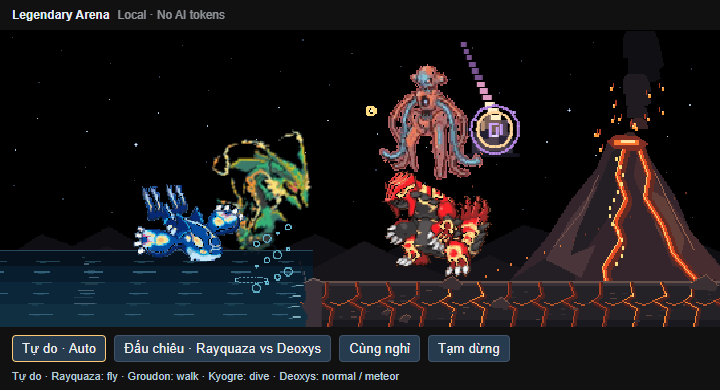
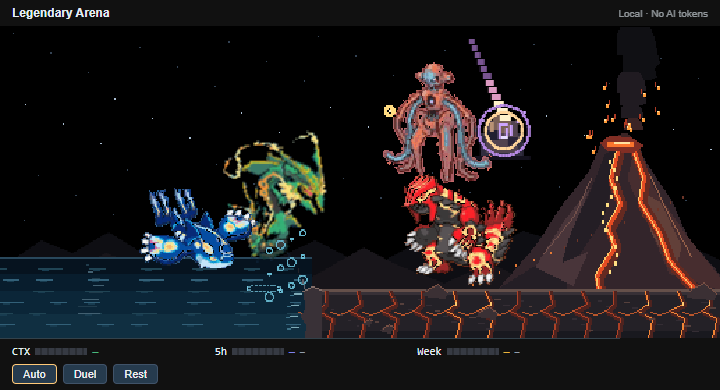
chore: update Pixel Familiars for Codex to version 0.19.9
- Updated documentation for Pixel Familiars to reflect changes in version 0.19.9.
- Enhanced Legendary Arena HUD to display remaining context, 5-hour quota, and weekly quota in a compact format.
- Implemented new arena usage tracking functionality in arena-hud.ts and arena-webview.ts.
- Added tests for arena usage functionality to ensure correct behavior and data handling.
- Updated extension files and images to support new features and improvements.
- Adjusted smoke tests to validate new arena HUD and usage metrics.

diff --git a/extensions/codex/arena.ts b/extensions/codex/arena.ts
@@ -1,19 +1,34 @@
 import * as vscode from 'vscode'
 import { randomBytes } from 'node:crypto'
+import { arenaUsage } from './arena-hud'
+import type { Usage } from './protocol'
 
 export function arenaHtml(script: string, ray: string, groudon: string, csp: string, nonce: string, kyogre: string, deoxys: string[] = []): string {
-  return `<!doctype html><html><head><meta charset="utf-8"><meta name="viewport" content="width=device-width,initial-scale=1"><meta http-equiv="Content-Security-Policy" content="default-src 'none'; img-src ${csp}; style-src 'unsafe-inline'; script-src 'nonce-${nonce}'"><style>
-  html,body{margin:0;height:100%;background:var(--vscode-editor-background,#111111);color:var(--vscode-foreground,#e5eef5);font:12px sans-serif}body{display:flex;flex-direction:column}header,footer{padding:8px 12px;display:flex;align-items:center;gap:8px;flex-wrap:wrap}header span{opacity:.6}main{position:relative;background:#000;flex:1;min-height:80px;overflow:hidden}canvas{position:absolute;inset:0;width:100%;height:100%;display:block;image-rendering:pixelated}button{background:#263b4e;color:#eee;border:1px solid #405369;padding:5px 9px;border-radius:4px;cursor:pointer}button[aria-pressed=true]{border-color:#ffc978}button:focus-visible{outline:2px solid #5aa9ff}#arena-status{padding:0 12px 8px;font-size:11px;color:#b8ccd9}img{display:none}</style></head><body>
-  <header><strong>Legendary Arena</strong><span>Local · No AI tokens</span></header><main><canvas id="arena" aria-label="Mega Rayquaza, Primal Groudon Primal Kyogre and Deoxys sharing a pixel arena"></canvas></main>
-  <footer><button data-mode="play" aria-pressed="true">Tự do · Auto</button><button data-mode="duel" aria-pressed="false">Đấu chiêu · Rayquaza vs Deoxys</button><button data-mode="rest" aria-pressed="false">Cùng nghỉ</button><button id="arena-pause" aria-pressed="false">Tạm dừng</button></footer><div id="arena-status" role="status">Đang tải các pet…</div>
+  return `<!doctype html><html lang="en"><head><meta charset="utf-8"><meta name="viewport" content="width=device-width,initial-scale=1"><meta http-equiv="Content-Security-Policy" content="default-src 'none'; img-src ${csp}; style-src 'unsafe-inline'; script-src 'nonce-${nonce}'"><style>
+  html,body{margin:0;height:100%;background:var(--vscode-editor-background,#111111);color:var(--vscode-foreground,#e5eef5);font:12px sans-serif}body{display:flex;flex-direction:column}header,footer{padding:8px 12px;display:flex;align-items:center;gap:8px;flex-wrap:wrap}header span{opacity:.6}main{position:relative;background:#000;flex:1;min-height:80px;overflow:hidden}canvas{position:absolute;inset:0;width:100%;height:100%;display:block;image-rendering:pixelated}button{background:#263b4e;color:#eee;border:1px solid #405369;padding:5px 9px;border-radius:4px;cursor:pointer}button[aria-pressed=true]{border-color:#ffc978}button:focus-visible{outline:2px solid #5aa9ff}#arena-status{position:absolute;width:1px;height:1px;overflow:hidden;clip-path:inset(50%)}
+  header{flex-shrink:0;justify-content:space-between;padding:6px 12px}header>span{font-size:10px}
+  #arena-hud{display:grid;grid-template-columns:repeat(3,minmax(0,1fr));gap:12px;border-top:1px solid #33424b;padding:6px 12px;flex-shrink:0;font:11px monospace;width:100%;max-width:620px;box-sizing:border-box;white-space:nowrap}.quota{display:flex;gap:5px;align-items:center;min-width:0}.quota label{flex-shrink:0}.meter{height:7px;background:#363a43;position:relative;overflow:hidden;flex:1;min-width:6px;max-width:52px}.meter:after{content:'';position:absolute;inset:0;background:repeating-linear-gradient(90deg,transparent 0 5px,#1115 5px 7px)}.meter i{display:block;height:100%;background:var(--quota-color);width:0}.quota[data-key=hp]{--quota-color:#49b77c}.quota[data-key=mp]{--quota-color:#7d81ee}.quota[data-key=st]{--quota-color:#e9b33c}.quota[data-low=true]{--quota-color:#e15b59}.quota output{color:var(--quota-color);font-weight:bold;flex-shrink:0}.reset{color:#9ba6b6;font-size:9px;flex-shrink:0}.reset:empty{display:none}
+  #arena-controls{display:flex;gap:6px;padding:0 12px 6px;flex-shrink:0}#arena-controls button{font-size:11px;padding:3px 10px}
+  @media(max-width:360px){#arena-hud{padding:5px 8px;gap:6px;font-size:9px}.quota{gap:3px}.reset{font-size:8px}.meter{max-width:18px}header{padding:5px 8px}header>span{display:none}#arena-controls{padding:0 8px 5px}}
+  @media(max-height:180px){header{padding:3px 8px}#arena-hud{padding:4px 8px}main{min-height:40px}#arena-controls{padding-bottom:4px}}img{display:none}</style></head><body>
+  <header><strong>Legendary Arena</strong><span>Local · No AI tokens</span></header><main><canvas id="arena" aria-label="Mega Rayquaza, Primal Groudon, Primal Kyogre and Deoxys sharing a pixel arena"></canvas></main>
+  <footer id="arena-hud" role="group" aria-label="Remaining context, five-hour and weekly token quotas">${['hp','mp','st'].map(key=>`<div class="quota" data-key="${key}"><label></label><div class="meter" role="progressbar"><i></i></div><output>—</output><span class="reset"></span></div>`).join('')}</footer>
+  <div id="arena-controls" role="group" aria-label="Arena actions"><button data-mode="play" aria-pressed="true">Auto</button><button data-mode="duel" aria-pressed="false">Duel</button><button data-mode="rest" aria-pressed="false">Rest</button></div><div id="arena-status" role="status">Loading pets…</div>
   <img id="arena-ray" src="${ray}" alt=""><img id="arena-groudon" src="${groudon}" alt=""><img id="arena-kyogre" src="${kyogre}" alt="">${deoxys.map((url,i)=>`<img id="arena-deoxys-${['normal','attack','defense','speed'][i]}" src="${url}" alt="">`).join('')}<script nonce="${nonce}" src="${script}"></script></body></html>`
 }
 export class Arena implements vscode.WebviewViewProvider {
-  constructor(private context: vscode.ExtensionContext) {}
+  constructor(private context: vscode.ExtensionContext,private observer?:{subscribe:(listener:(usage:Usage)=>void)=>vscode.Disposable;visible:(visible:boolean)=>void}) {}
   resolveWebviewView(view: vscode.WebviewView): void {
     const root = this.context.extensionUri
     view.webview.options = { enableScripts: true, localResourceRoots: [vscode.Uri.joinPath(root, 'dist'), vscode.Uri.joinPath(root, 'extensions', 'codex')] }
     const asset = (folder: string, name: string) => view.webview.asWebviewUri(vscode.Uri.joinPath(root, folder, name)).toString()
+    let usage:Usage={},ready=false
+    const send=()=>{if(ready&&view.visible)void view.webview.postMessage({type:'arena-usage',usage})}
+    const subscription=this.observer?.subscribe(value=>{usage=arenaUsage(value);send()})
+    this.observer?.visible(view.visible)
+    this.context.subscriptions.push(view.webview.onDidReceiveMessage((message:unknown)=>{
+      if(message&&typeof message==='object'&&(message as {type?:unknown}).type==='arena-ready'){ready=true;send()}
+    }),view.onDidChangeVisibility(()=>{this.observer?.visible(view.visible);send()}),view.onDidDispose(()=>{subscription?.dispose();this.observer?.visible(false)}))
     view.webview.html = arenaHtml(asset('dist', 'arena.js'), asset('extensions/codex', 'legendary-128px-atlas.png'), asset('extensions/codex', 'groudon-primal-128px-atlas.png'), view.webview.cspSource, randomBytes(16).toString('hex'), asset('extensions/codex','kyogre-primal-128px-atlas.png'), ['normal','attack','defense','speed'].map(form=>asset('extensions/codex',`deoxys-${form}-128px-atlas.png`)))
   }
 }

diff --git a/extensions/codex/arena-webview.ts b/extensions/codex/arena-webview.ts
@@ -1,3 +1,4 @@
+import { arenaUsage,arenaUsageRows } from './arena-hud'
 import { drawGroundDuel, drawMeteorRain } from './ground-duel-effects'
 import { drawAirDuel } from './air-duel-effects'
 import { DeoxysRenderer } from './deoxys-renderer'
@@ -9,6 +10,30 @@ import { drawArenaScene } from './arena-scene'
 import { MegaAnimator, MegaTexture, megaMouth, MEGA_DURATION, type MegaAction } from './mega-rayquaza'
 import { GroudonAnimator, GroudonTexture, groudonMouth, GROUDON_DURATION, type GroudonAction } from './primal-groudon'
 
+declare function acquireVsCodeApi():{postMessage(message:unknown):void}
+const api=typeof acquireVsCodeApi==='function'?acquireVsCodeApi():undefined
+let usage:unknown={},lastUsageKey=''
+function renderUsage(now=Date.now()):void {
+ const key=JSON.stringify([usage,Math.floor(now/60000)])
+ if(key===lastUsageKey)return;lastUsageKey=key
+ for(const row of arenaUsageRows(usage,now)){
+  const element=document.querySelector<HTMLElement>(`.quota[data-key=${row.key}]`)!,meter=element.querySelector<HTMLElement>('.meter')!
+  element.querySelector('label')!.textContent=row.label
+  element.querySelector('output')!.textContent=row.value===undefined?'—':`${Math.round(row.value)}%`
+  element.querySelector('.reset')!.textContent=row.reset?`↻${row.reset.replace('reset ','').split(' ')[0]}`:''
+  element.dataset.low=String(row.value!==undefined&&row.value<=20)
+  meter.querySelector<HTMLElement>('i')!.style.width=`${row.value??0}%`
+  meter.setAttribute('aria-label',`${row.label} remaining: ${row.value===undefined?'unavailable':Math.round(row.value)+'%'}`)
+  meter.setAttribute('aria-valuemin','0');meter.setAttribute('aria-valuemax','100')
+  if(row.value===undefined)meter.removeAttribute('aria-valuenow');else meter.setAttribute('aria-valuenow',String(row.value))
+  element.title=row.value===undefined?'Usage data is unavailable for the selected Codex session':`${row.label} remaining: ${Math.round(row.value)}%${row.reset?' · '+row.reset:''}`
+ }
+}
+window.addEventListener('message',(event:MessageEvent<unknown>)=>{
+ const message=event.data
+ if(message&&typeof message==='object'&&(message as {type?:unknown}).type==='arena-usage'){usage=arenaUsage((message as {usage?:unknown}).usage);renderUsage()}
+})
+renderUsage();api?.postMessage({type:'arena-ready'})
 const canvas = document.querySelector<HTMLCanvasElement>('#arena')!, ctx = canvas.getContext('2d')!
 const status = document.querySelector<HTMLElement>('#arena-status')!
 const ray = new MegaAnimator(), groudon = new GroudonAnimator(), kyogre = new KyogreAnimator()
@@ -23,7 +48,7 @@ let rayTexture: MegaTexture, groundTexture: GroudonTexture
 const life = new ArenaLife()
 const deoxysLife = life.deoxys
 const deoxys = new DeoxysRenderer(DEOXYS_FORMS.map(form => document.querySelector<HTMLImageElement>(`#arena-deoxys-${form}`)!))
-let paused = false, last = 0, paint = 0, ready = false, rayRevision = -1, groundRevision = -1
+let last = 0, paint = 0, ready = false, rayRevision = -1, groundRevision = -1
 const pixel = (x: number, y: number, w: number, h: number, color: string) => { pen.fillStyle = color; pen.fillRect(Math.round(x), Math.round(y), w, h) }
 function ring(x: number, y: number, r: number, color: string): void {
   for (let i = 0; i < 48; i++) { const a = i * Math.PI / 24; pixel(x + Math.cos(a) * r, y + Math.sin(a) * r, 2, 2, color) }
@@ -102,11 +127,11 @@ function draw(): void {
     if (beat % 4 === 2 && p > .35 && p < .85) for (let i = 0; i < 4; i++) { const h = Math.max(0, Math.sin(Math.min(1, Math.max(0, (p - .35 - i * .04) * 4)) * Math.PI)) * 42; pixel(gx - 14 - i * 23, 189 - h, 8, h, '#8b4835'); pixel(gx - 12 - i * 23, 190 - h, 2, h, '#ffc262') }
     if(beat%4===3)drawMeteorRain(pen,p,fireMouth,target)
     if (turn === 0 && (mode==='duel'||life.opponent === 'kyogre')) phase = p < .43 ? 'charge' : p < .7 ? 'projectile' : p < .88 ? 'shield' : 'recover'
-    status.textContent = `Äáº¥u tập · ${(mode==='duel'||life.opponent === 'kyogre') ? 'Kyogre & Groudon' : 'Rayquaza & Groudon'} · ${beat % 4 === 0 ? (mode==='duel'||life.opponent === 'kyogre') ? 'Cầu sáng / tia nước' : 'Dragon Pulse' : ['','Energy Burst','Precipice Blades','Eruption'][beat % 4]} · ${phase}`
+    status.textContent = `Sparring · ${(mode==='duel'||life.opponent === 'kyogre') ? 'Kyogre & Groudon' : 'Rayquaza & Groudon'} · ${beat % 4 === 0 ? (mode==='duel'||life.opponent === 'kyogre') ? 'Hydro Cannon' : 'Dragon Pulse' : ['','Energy Burst','Precipice Blades','Eruption'][beat % 4]} · ${phase}`
   } else if(mode!=='duel') {
     if (life.ray.action === 'sleep' || life.groudon.action === 'sleep') { pen.fillStyle = '#b5e3df'; pen.font = '10px monospace'; pen.fillText('z Z', rx + 110, 44); pen.fillText('z Z', gx + 150, 64) }
     else { const x = 235 + Math.sin(t) * 45, y = 70 + Math.cos(t * 1.3) * 22; ring(x, y, 3, '#ffdb81'); pixel(x, y, 2, 2, '#fff2cc') }
-    status.textContent = life.state === 'approach' ? 'Các pet đang tới vị trí đấu tập…' : mode === 'rest' ? 'Bốn pet cùng nghỉ · thở chậm' : `Tự do · Rayquaza: ${life.ray.action} · Groudon: ${life.groudon.action} · Kyogre: ${life.kyogre.action}`
+    status.textContent = life.state === 'approach' ? 'Pets are moving into position…' : mode === 'rest' ? 'All four pets are resting' : `Auto · Rayquaza: ${life.ray.action} · Groudon: ${life.groudon.action} · Kyogre: ${life.kyogre.action}`
   }
   if(mode==='duel') {
     phase=life.airDuel.phase
@@ -125,7 +150,6 @@ document.querySelectorAll<HTMLButtonElement>('button[data-mode]').forEach(button
   life.select(mode as ArenaMode); actions()
   document.querySelectorAll('button[data-mode]').forEach(item => item.setAttribute('aria-pressed', String(item === button))); draw()
 }))
-document.querySelector('#arena-pause')!.addEventListener('click', event => { paused = !paused; const button = event.currentTarget as HTMLButtonElement; button.setAttribute('aria-pressed', String(paused)); button.textContent = paused ? 'Tiếp tục' : 'Tạm dừng' })
 new ResizeObserver(draw).observe(canvas)
 async function load(): Promise<void> {
   await deoxys.load()
@@ -135,10 +159,11 @@ async function load(): Promise<void> {
   const data = images.map(image => { context.clearRect(0, 0, 128, 128); context.drawImage(image, 0, 0, 128, 128, 0, 0, 128, 128); return context.getImageData(0, 0, 128, 128).data })
   rayTexture = new MegaTexture(data[0]); groundTexture = new GroudonTexture(data[1]); seaTexture = new KyogreTexture(data[2]); ready = true; actions(); draw()
 }
-void load().catch(() => { status.textContent = 'Không tải được sprite. Hãy cài lại extension.' })
+void load().catch(() => { status.textContent = 'Unable to load sprites. Reinstall the extension.' })
 function tick(now: number): void {
+  renderUsage()
   const delta = last ? Math.max(0, Math.min(100, now - last)) : 0; last = now
-  if (ready && !paused && !document.hidden) {
+  if (ready && !document.hidden) {
     life.advance(delta); actions()
     // Attacks finish once per turn; breathing and roaming motions keep looping.
     ray.advance(life.state === 'duel' ? Math.max(0, Math.min(delta, MEGA_DURATION[ray.action] - 1 - ray.elapsed)) : delta, false)

diff --git a/extensions/codex/extension.ts b/extensions/codex/extension.ts
@@ -6,7 +6,7 @@ import { join, isAbsolute, resolve, relative } from 'node:path'
 import { randomBytes } from 'node:crypto'
 import { readTheme } from '../../plugins/pixel-pet/hooks/theme'
 import { discoverSessions, SessionTail, type Session } from './sessions'
-import { emptySnapshot, object, combineActivity, type Preferences } from './protocol'
+import { emptySnapshot, object, combineActivity, type Preferences, type Usage } from './protocol'
 import { bridgeRoot, eventPath, atomicJson, storedTheme, saveTheme, readJson } from './bridge'
 import { installBridge } from './install'
 import { bundledTheme, meadowTheme, upgradeMeadow } from './scene-theme'
@@ -31,6 +31,16 @@ const preferences = (): Preferences => ({ speed: config().get('speed', 'normal')
 
 class Companion implements vscode.WebviewViewProvider, vscode.Disposable {
   private view?: vscode.WebviewView
+  private arenaVisible=false
+  private observedUsage:Usage={}
+  private usageListeners=new Set<(usage:Usage)=>void>()
+  observeUsage(listener:(usage:Usage)=>void):vscode.Disposable {
+    this.usageListeners.add(listener);listener({...this.observedUsage})
+    return {dispose:()=>{this.usageListeners.delete(listener)}}
+  }
+  setArenaVisible(visible:boolean):void {this.arenaVisible=visible;if(visible)void this.poll(true)}
+  private publishUsage(usage:Usage):void {this.observedUsage={...usage};for(const listener of this.usageListeners)listener({...usage})}
+
   private sessions: Session[] = []
   private tail?: SessionTail
   private hookTail?: SessionTail
@@ -156,7 +166,7 @@ class Companion implements vscode.WebviewViewProvider, vscode.Disposable {
 
   async poll(force = false): Promise<void> {
     if (this.busy || this.disposed || !vscode.workspace.isTrusted) return
-    if (!force && !this.view?.visible) return
+    if (!force && !this.view?.visible && !this.arenaVisible) return
     this.busy = true
     try {
       if (Date.now() >= this.nextScan || force) { await this.scan(); this.nextScan = Date.now() + 2000 }
@@ -176,6 +186,7 @@ class Companion implements vscode.WebviewViewProvider, vscode.Disposable {
       }
       snapshot = await this.subagents.poll(home(), vscode.workspace.workspaceFolders?.map(folder => folder.uri.fsPath) ?? [], snapshot)
       this.error = ''
+      this.publishUsage(snapshot.usage)
       if (!preferences().targets) snapshot.target = ''
       if (!preferences().targets) snapshot.toolStates = snapshot.toolStates?.map(tool => ({ ...tool, target: '' }))
       // Command directories stay in the host; the UI receives only project outcomes.
@@ -185,6 +196,7 @@ class Companion implements vscode.WebviewViewProvider, vscode.Disposable {
       const code = object(error).code
       const message = code === 'ENOENT' ? 'Codex sessions not found. Check Pixel Pet: Codex Home in Settings.' : `Session observer: ${error instanceof Error ? error.message : String(error)}`
       if (message !== this.error) { this.output.appendLine(message); this.error = message }
+      this.publishUsage({})
       await this.view?.webview.postMessage({ type: 'activity', snapshot: emptySnapshot(), demo: this.demo, preferences: preferences(), connection: message })
     } finally { this.busy = false }
   }
@@ -280,7 +292,7 @@ class Companion implements vscode.WebviewViewProvider, vscode.Disposable {
     void vscode.window.showInformationMessage('In the Codex terminal, enter /hooks and review/trust only the Pixel Pet observer entries. Then reload VS Code and start a new Codex session.')
   }
   report(error: unknown): void { this.output.appendLine(error instanceof Error ? error.message : String(error)) }
-  dispose(): void { this.disposed = true; this.project.dispose(); clearInterval(this.timer); clearTimeout(this.wakeTimer); this.bridgeWatcher?.close(); this.eventsWatcher?.close() }
+  dispose(): void { this.disposed = true; this.usageListeners.clear(); this.project.dispose(); clearInterval(this.timer); clearTimeout(this.wakeTimer); this.bridgeWatcher?.close(); this.eventsWatcher?.close() }
 }
 
 export function activate(context: vscode.ExtensionContext): void {
@@ -294,7 +306,7 @@ export function activate(context: vscode.ExtensionContext): void {
     vscode.commands.registerCommand('pixelPet.openDeoxys', () => vscode.commands.executeCommand('pixelPet.deoxys.focus')),
     vscode.window.registerWebviewViewProvider('pixelPet.kyogre', new Kyogre(context)),
     vscode.commands.registerCommand('pixelPet.openKyogre', () => vscode.commands.executeCommand('pixelPet.kyogre.focus')),
-    vscode.window.registerWebviewViewProvider('pixelPet.arena', new Arena(context)),
+    vscode.window.registerWebviewViewProvider('pixelPet.arena', new Arena(context,{subscribe:listener=>companion.observeUsage(listener),visible:value=>companion.setArenaVisible(value)})),
     vscode.commands.registerCommand('pixelPet.openArena', () => vscode.commands.executeCommand('pixelPet.arena.focus')),
     vscode.commands.registerCommand('pixelPet.openGroudon', () => vscode.commands.executeCommand('pixelPet.groudon.focus')),
     vscode.commands.registerCommand('pixelPet.openLegendary', () => vscode.commands.executeCommand('pixelPet.legendary.focus')),

diff --git a/extensions/codex/arena-hud.ts b/extensions/codex/arena-hud.ts
@@ -1,0 +1,26 @@
+import type { Usage } from './protocol'
+
+/** Only numeric usage metadata crosses into the Arena; no activity or transcript data. */
+export function arenaUsage(value:unknown):Usage {
+ const input=value&&typeof value==='object'?value as Record<string,unknown>:{}
+ const result:Usage={}
+ for(const key of ['hp','mp','st','mpReset','stReset'] as const){
+  const v=input[key]
+  if(typeof v==='number'&&Number.isFinite(v)&&v>=0)result[key]=key.endsWith('Reset')?v:Math.max(0,Math.min(100,v))
+ }
+ return result
+}
+export function arenaReset(timestamp:number|undefined,now:number):string {
+ if(timestamp===undefined)return 'reset —'
+ const minutes=Math.max(0,Math.ceil((timestamp*1000-now)/60000))
+ const days=Math.floor(minutes/1440),hours=Math.floor(minutes%1440/60),mins=minutes%60
+ return 'reset '+(days?`${days}d ${hours}h`:hours?`${hours}h ${mins}m`:`${mins}m`)
+}
+export function arenaUsageRows(value:unknown,now:number){
+ const usage=arenaUsage(value)
+ return [
+  {key:'hp',label:'CTX',value:usage.hp,reset:''},
+  {key:'mp',label:'5h',value:usage.mp,reset:arenaReset(usage.mpReset,now)},
+  {key:'st',label:'Week',value:usage.st,reset:arenaReset(usage.stReset,now)},
+ ] as const
+}

diff --git a/extensions/codex/test/arena-hud.test.ts b/extensions/codex/test/arena-hud.test.ts
@@ -1,0 +1,16 @@
+import {test} from 'node:test'
+import assert from 'node:assert/strict'
+import {arenaUsage,arenaReset,arenaUsageRows} from '../arena-hud'
+
+test('Arena retains only bounded numeric usage and reset timestamps',()=>{
+ assert.deepEqual(arenaUsage({hp:180,mp:-5,st:NaN,mpReset:7200,stReset:Infinity,prompt:'private',tools:3}),{hp:100,mpReset:7200})
+ assert.deepEqual(arenaUsage(null),{})
+})
+test('Arena always shows three remaining metrics and preserves unknown usage',()=>{
+ const rows=arenaUsageRows({hp:75,mp:80,st:63,mpReset:10800,stReset:86400*3},3600000)
+ assert.deepEqual(rows.map(r=>r.value),[75,80,63]);assert.equal(rows[1].reset,'reset 2h 0m');assert.equal(rows[2].reset,'reset 2d 23h')
+ assert.ok(arenaUsageRows({},0).every(r=>r.value===undefined))
+})
+test('Arena reset countdown advances independently of pet animation and never goes negative',()=>{
+ assert.equal(arenaReset(7200,3600000),'reset 1h 0m');assert.equal(arenaReset(7200,7140000),'reset 1m');assert.equal(arenaReset(7200,7300000),'reset 0m');assert.equal(arenaReset(undefined,0),'reset —')
+})

diff --git a/README.md b/README.md
@@ -14,6 +14,12 @@
 
 Owned and maintained by **[PhucUSk20](https://github.com/PhucUSk20)**. Based on [Namenomeaning/pixel-pet](https://github.com/Namenomeaning/pixel-pet), with original authorship and MIT notices preserved.
 
+<p align="center">
+  <img src="docs/images/Demo.png" width="840" alt="Legendary Arena: Mega Rayquaza clashes with Deoxys above Primal Kyogre and Primal Groudon exchanging water and fire beams">
+</p>
+
+<p align="center"><a href="#legendary-companions">Meet the four legendary companions</a> · Autonomous roaming, meteorite transformations and two simultaneous battles.</p>
+
 ## Choose your companion
 
 Both integrations use the shared pixel engine and theme format. Each connects to its own runtime; features differ where their event streams and display surfaces differ.
@@ -108,77 +114,56 @@ Try a purple slime, a rubber duck, a moon scene, a radar for web searches or a H
 
 <p align="center"><img src="docs/images/pets.gif" width="440" alt="A pixel slime beside a custom rubber duck"></p>
 
-## Legendary Pet
+## Legendary companions
 
-In VS Code, run **Pixel Pet: Open Legendary Pet** for an independent panel. Mega Rayquaza has five actions: **flight, curled sleep, roar, Dragon Pulse and dash/braking**, with smooth transitions, Auto and Pause. **Hình gốc** plays the unchanged source frames for comparison.
+Four source-textured pixel pets share **Legendary Arena** in the Codex VS Code extension. They roam, choose activities and occasionally spar on their own. The world has a black starry sky, a rippling ocean, a flat basalt coast and an erupting volcano. Kyogre stays in the sea, Groudon walks on land, and Rayquaza and Deoxys fly overhead.
 
-<p align="center"><img src="docs/images/legendary-source-actions.gif" width="700" alt="Five Mega Rayquaza actions with smooth transitions and a visible sleeping head"></p>
+After installing the Codex companion and reloading VS Code, open the Command Palette and run **Pixel Familiars: Open Legendary Arena**. Individual pet panels are also available:
 
-Its animation runs locally, shares no AI session and makes no model requests.
+| Pet | Dedicated panel command | Highlights |
+| --- | --- | --- |
+| **Mega Rayquaza** | `Pixel Pet: Open Legendary Pet` | Articulated flight, curled sleep, roar, Dragon Pulse and a fast dash with braking |
+| **Primal Groudon** | `Pixel Pet: Open Primal Groudon` | Heavy walking, sleep, roar, magma blades, Energy Burst and diagonal meteor rain |
+| **Primal Kyogre** | `Pixel Familiars: Open Primal Kyogre` | Swimming, diving, rest, roar, five-orb water jets, twin waterspouts and thunderstorms |
+| **Deoxys** | `Pixel Familiars: Open Deoxys` | Flight, meteorite contact, Normal/Attack/Defense/Speed forms and distinct psychic skills |
 
-Run **Pixel Pet: Open Primal Groudon** for a separate volcanic pixel stage. Its six actions are **heavy walking, sleep, roar, Precipice Blades, Energy Burst and Eruption**. Arms, legs, head, jaw and tail follow their own motion, with smooth interrupted transitions. Precipice Blades raises molten rock blades from the ground; Energy Burst charges a purple orb at the mouth before launching it with recoil; Eruption launches fireballs diagonally from the mouth before they fall as a meteor shower.
-
-<p align="center"><img src="docs/images/groudon-actions.gif" width="700" alt="Primal Groudon: six source-textured motions, molten rock blades, purple energy burst and eruption"></p>
-
-The supplied 128px artwork and all 160 original frames are preserved. **Hình gốc**, Auto and Pause are available. The purple attack uses a descriptive name from the reference GIF rather than assuming its canonical move name. All Groudon animation is local and adds no AI calls or tokens. [Groudon design and controls](docs/PRIMAL-GROUDON.md).
-
-## Develop
-
-- **Shared engine and Claude adapter:** `plugins/pixel-pet/`.
-- **Codex adapter and VS Code panels:** `extensions/codex/`.
-- **Build, packaging and recordings:** `tools/codex/`.
-- **Independent repo workflow and upstream contributions:** [development guide](docs/DEVELOPMENT.md).
-
-For the Codex companion, run `npm.cmd ci`, `npm.cmd run typecheck`, `npm.cmd test` and `npm.cmd run package`. Also run `npm.cmd run test:ui` after host, renderer or bridge changes. On macOS/Linux, use `npm`.
-
-For Claude plugin changes, follow [CLAUDE.md](CLAUDE.md) and run:
-
-```bash
-claude plugin validate . --strict
-claude plugin validate plugins/pixel-pet --strict
-claude plugin test plugins/pixel-pet
-```
-
-The [Claude Code guide](docs/CLAUDE.md#develop) includes generated-type setup and preview checks. Recreate Codex GIFs with `npm.cmd run record:codex-pets` or `npm.cmd run record:legendary` (Chrome/Edge and ffmpeg required).
-
-## Privacy and security
-
-The **Codex companion** observes local hooks, workspace-scoped session logs and project diagnostics. It retains sanitized activity metadata, not prompts, reasoning or full tool output. It does not modify OpenAI's installed extension or approve tools.
-
-The **Claude plugin** runs inside Claude Code, reads its theme/session usage/subagent state and draws the pet. The mod makes no network requests, starts no processes and reads no environment variables. Its optional status targets show short file/command hints; turn those off when sharing your screen.
-
-See each integration's guide for details. Report vulnerabilities through a [private security advisory](https://github.com/PhucUSk20/pixel-familiars/security/advisories/new).
-
-## Primal Kyogre
-
-Run **Pixel Familiars: Open Primal Kyogre** for seven source-textured actions: swimming, diving, resting, roaring, five-orb rays, a curled wave and a rainstorm. Fins, tail, head and jaw articulate independently with smooth transitions. **Sprite gốc** preserves the 160-frame source loop; Auto and Pause are available. Kyogre also lives in the sea of Legendary Arena and automatically spars with Groudon, alternating with Rayquaza. Everything runs locally with no AI calls or tokens. [Design and controls](docs/PRIMAL-KYOGRE.md).
-
-![Primal Kyogre: seven articulated motions and water effects](docs/images/kyogre-actions.gif)
-
-## Rayquaza vs Deoxys
-
-Arena's **Đấu chiêu · Rayquaza vs Deoxys** mode stages a local aerial match: Dragon Pulse meets Defense's reflective barrier, Attack launches Psycho Boost while Rayquaza dives aside, Speed zigzags through an aerial chase, and Normal's psychic pulse clashes with Rayquaza's beam. Kyogre and Groudon simultaneously cycle five turns of five horizontal water jets, energy burst, rock blades, meteor rain and a water/fire beam clash below, with an independent timer that continues during aerial transformations. Both aerial pets fly into position; Deoxys changes forms through falling-meteorite contact between rounds. Pause, Rest and Auto can interrupt the choreography.
-
-![Rayquaza vs Deoxys: four aerial rounds](docs/images/legendary-duel.gif)
-
-## Deoxys · four forms and a meteorite
-
-Deoxys flies freely; a meteorite falls nearby, then Deoxys descends, touches it and transforms into randomly ordered Attack, Defense and Speed forms. Each has its own articulated skill animation; all four can be viewed in the Deoxys panel and Deoxys also lives in Legendary Arena. Runs locally without AI token usage.
-
-![Meteorite descent, contact and transformation](docs/images/deoxys-meteor.gif)
-
-![Deoxys transformations and skills](docs/images/deoxys-actions.gif)
-
-Open **Pixel Familiars: Open Deoxys**. [Controls and animation details](docs/DEOXYS.md).
-
-## License and attribution
-
-[MIT](LICENSE). Pixel Familiars is maintained by **[PhucUSk20](https://github.com/PhucUSk20)**. Original Pixel Pet by **halluqinate**, from [Namenomeaning/pixel-pet](https://github.com/Namenomeaning/pixel-pet). Original copyright notices and commit authorship are preserved.
+All animation runs locally with **no additional AI calls or tokens**. Actions articulate the supplied sprites and blend between poses; individual panels also retain original-frame playback.
 
 ### Shared Legendary Arena
 
-Version 0.16.1 expands the arena to the panel width without enlarging the pets or stretching the volcano. Groudon walks only on the basalt land; Rayquaza can fly across the sky and change altitude. Resizing keeps both pets inside their movement bounds.
+- **Auto**: independent roaming and activities, with occasional battles before returning to exploration.
+- **Duel**: Rayquaza fights Deoxys in the sky while Kyogre and Groudon exchange attacks below, with independent battle timing.
+- **Rest**: all four pets settle down while their breathing animations continue.
 
-Open **Pixel Familiars: Open Legendary Arena** after reloading VS Code. **Tự do · Auto** is the default: each pet roams and chooses activities independently, occasionally meets the other for a short sparring session, then returns to roaming. No tasks or clicks are required. **Đấu chiêu** keeps them sparring; **Cùng nghỉ** lets all four rest. Sparring cycles Dragon Pulse, Energy Burst, Precipice Blades and Eruption with charging, projectiles, shields and recovery. The arena has a black starry sky, a rippling ocean on the left, a flat basalt coast and an erupting volcano behind Groudon. All four pets retain their articulated source sprites. Kyogre swims only within the sea and alternates sparring turns with Rayquaza. Pause freezes pets and scenery. Everything runs locally with no AI requests or tokens; individual pet panels remain available.
+The footer keeps **CTX**, **5h** and **Week** on one compact line: remaining context, remaining 5-hour quota and remaining weekly quota. Reset countdowns use a short label; hover for details. The values come from the same real Codex session selected by Pixel Pet, even when only Arena is open. Missing readings show **—**. The three action buttons sit directly below the meters.
 
-![Autonomous Rayquaza, Groudon and Kyogre life and occasional sparring](docs/images/legendary-arena.gif)
+<p align="center"><img src="docs/images/legendary-arena.gif" width="840" alt="Four pixel companions roaming autonomously across the ocean, coast and volcanic sky, with a compact one-line usage HUD and Auto, Duel and Rest controls"></p>
+
+### Two simultaneous battles
+
+**Rayquaza vs Deoxys:** Dragon Pulse meets Defense's reflective barrier; Attack launches Psycho Boost while Rayquaza dodges; Speed starts an aerial pursuit; Normal trades a psychic pulse against Rayquaza's beam. Between rounds, a meteorite falls near Deoxys, and it flies down to touch the rock before changing forms.
+
+**Kyogre vs Groudon:** five jets launch from Kyogre's circular charging orbs; Groudon's magma blades erupt towards and beneath Kyogre; two waterspouts rise, merge and strike Groudon. Groudon also launches diagonal fireballs into a descending meteor shower, while Kyogre extends storm clouds over both pets and calls lightning down onto Groudon. Water and fire beams meet in a shared collision core. Hits add recoil, fragments, spray or steam.
+
+<details>
+<summary>Watch the full battle GIF</summary>
+
+<p align="center"><img src="docs/images/legendary-duel.gif" width="840" alt="Rayquaza and Deoxys cycle four aerial rounds while Kyogre and Groudon independently exchange five ground battle sequences"></p>
+
+</details>
+
+### Mega Rayquaza
+
+Five actions: **flight, curled sleep, roar, Dragon Pulse and dash/braking**. The body, head, jaw and flowing tendrils move through smooth transitions, including a sleeping pose that keeps the head visible.
+
+<p align="center"><img src="docs/images/legendary-source-actions.gif" width="700" alt="Mega Rayquaza demonstrating flight, curled sleep, roar, Dragon Pulse and a fast dash with smooth transitions"></p>
+
+### Primal Groudon
+
+Six actions: **heavy walking, sleep, roar, Precipice Blades, Energy Burst and Eruption**. A glowing fracture advances towards the opponent before six jagged magma pillars erupt. Energy Burst charges at the mouth and launches with recoil; Eruption sends fireballs diagonally skyward before they descend over Kyogre. Arms, legs, head, jaw and tail articulate independently. [Groudon design and controls](docs/PRIMAL-GROUDON.md).
+
+<p align="center"><img src="docs/images/groudon-actions.gif" width="700" alt="Primal Groudon walking, resting, roaring, raising magma pillars, charging Energy Burst and launching meteor rain"></p>
+
+### License and attribution
+
+[MIT](LICENSE). Pixel Familiars is maintained by **[PhucUSk20](https://github.com/PhucUSk20)**. Original Pixel Pet by **halluqinate**, from [Namenomeaning/pixel-pet](https://github.com/Namenomeaning/pixel-pet). Original copyright notices and commit authorship are preserved.

diff --git a/docs/VERIFICATION.md b/docs/VERIFICATION.md
@@ -1,3 +1,17 @@
+## Compact one-line English Arena HUD 0.19.9 — 2026-10-06
+
+- CTX, 5h and Week remaining percentages, miniature pixel bars and compact reset countdowns stay on one line. Detailed English tooltips retain full countdown meaning. Unknown values remain unknown.
+- Restored visible Auto, Duel and Rest buttons directly below the meters. Removed the header menu and Pause button/handler. Arena text, loading/error messages and accessible labels are English.
+- Responsive browser assertions check a single meter row, no horizontal overflow and visible actions underneath on narrow and shallow panels. Shared real session usage still updates with the Pixel Pet view hidden.
+- `npm ci`, typecheck, build, all 107 sequential tests and the complete Chromium UI suite pass. Re-recorded both Arena GIFs, packaged and installed extension 0.19.9.
+
+## Shared Legendary Arena usage HUD 0.19.8 — 2026-10-06
+
+- Replaced the action-button footer with remaining context, 5-hour quota and weekly quota plus reset countdowns. Unknown values remain unknown. Moved animation controls to the header menu, retaining automatic play by default.
+- Arena subscribes to the companion's existing workspace/session observer. Arena visibility keeps that observer active independently of the Pixel Pet view. The webview receives only bounded numeric usage/reset fields; no transcript or tool contents. Disposal removes its subscription.
+- Coverage checks three metrics, metadata sanitization, countdown boundaries, missing values, live updates with the companion hidden, controls, pause and responsive layout.
+- `npm ci`, typecheck, build, all 107 sequential tests and the complete Chromium UI suite pass. Recorded both Arena GIFs with the new footer, packaged and installed extension 0.19.8.
+
 ## Magma blades and twin waterspouts 0.19.7 — 2026-10-06
 
 - Groudon sends a glowing ground fracture towards Kyogre. Six successive jagged magma columns grow taller along the path, erupt beneath Kyogre and throw fragments, spray and steam. Kyogre recoils on contact. The standalone panel uses the same blade renderer.

diff --git a/docs/CODEX.md b/docs/CODEX.md
@@ -1,4 +1,4 @@
-# Pixel Familiars for Codex 0.19.7
+# Pixel Familiars for Codex 0.19.9
 
 Maintained by [PhucUSk20](https://github.com/PhucUSk20) in [pixel-familiars](https://github.com/PhucUSk20/pixel-familiars). Existing `Pixel Pet:` command names remain available for compatibility. See [DEVELOPMENT.md](DEVELOPMENT.md) for repository ownership, attribution and the separate upstream contribution workflow.
 
@@ -197,3 +197,5 @@ In 0.19.4, Kyogre releases five separate water jets from the original circular c
 In 0.19.5, fire meteors ascend and descend diagonally with matching trails. All five Kyogre jets terminate on Groudon's armor, producing distinct spray, steam and a local recoil reaction after arrival.
 
 In 0.19.6, Kyogre's storm clouds and rain extend across both pets, while jagged lightning descends from above Groudon into its articulated armor position. Impact adds sparks, a local glow and recoil. Pause freezes the storm and all four pets.
+
+Legendary Arena HUD (0.19.8): the footer contains remaining context, 5-hour quota and weekly quota. Both quota rows show reset countdowns; unknown values remain unknown. It shares the existing workspace observer and selected session, and refreshes while Arena is visible even if the main Pixel Pet view is closed. Only numeric usage metadata reaches Arena. The compact CTX, 5h and Week meters share a single line. Auto, Duel and Rest buttons remain visible below them; the Pause control is removed. All Arena labels and tooltips are English.
